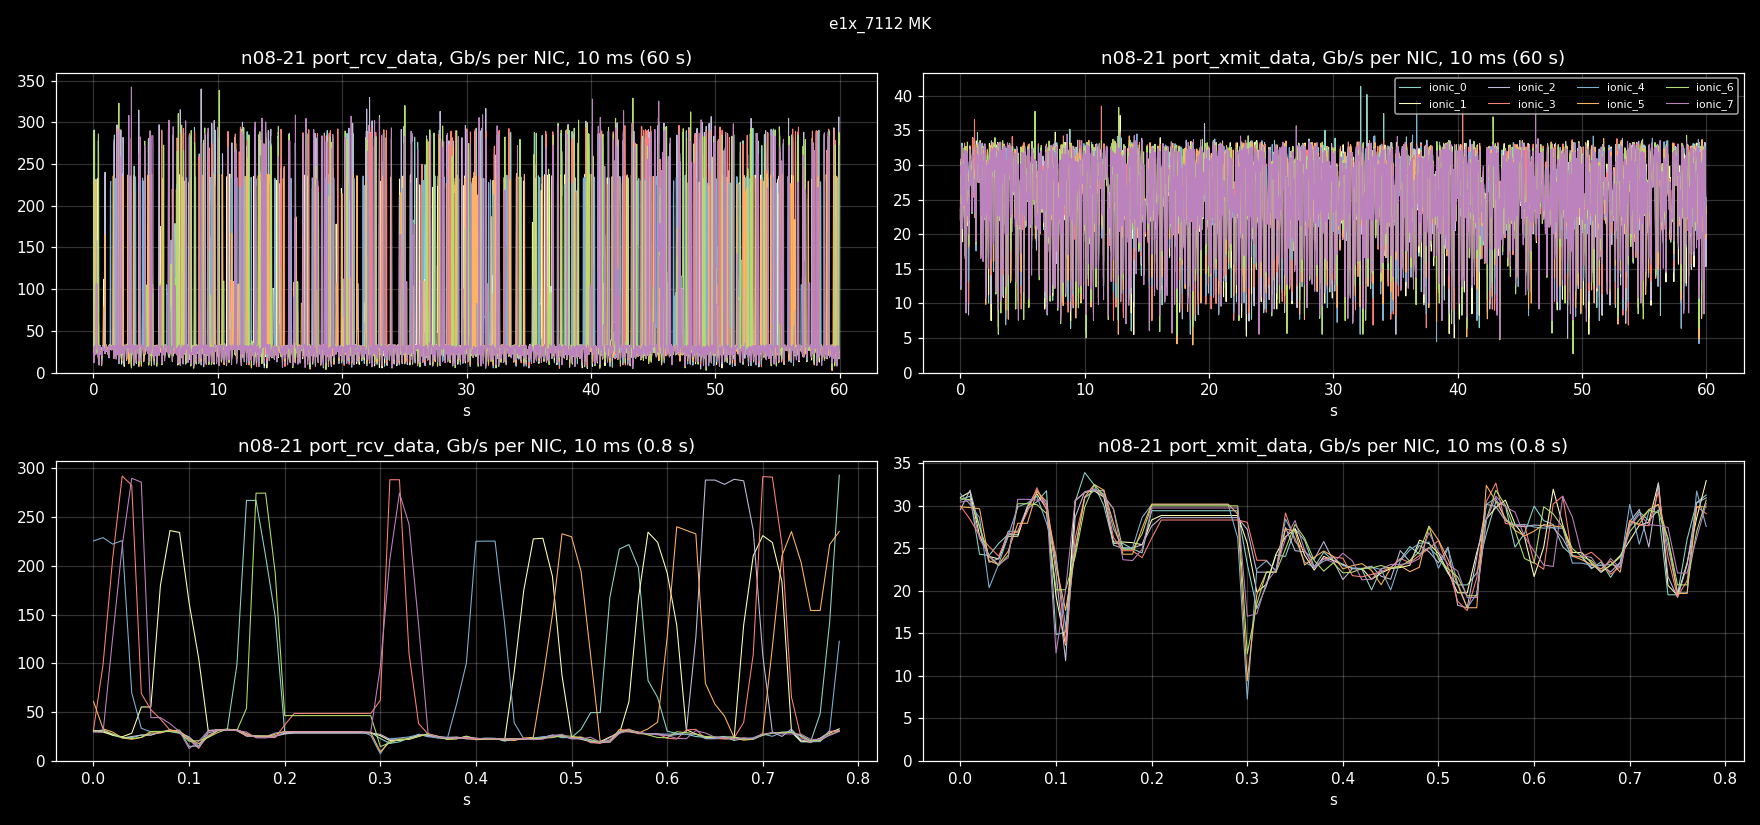
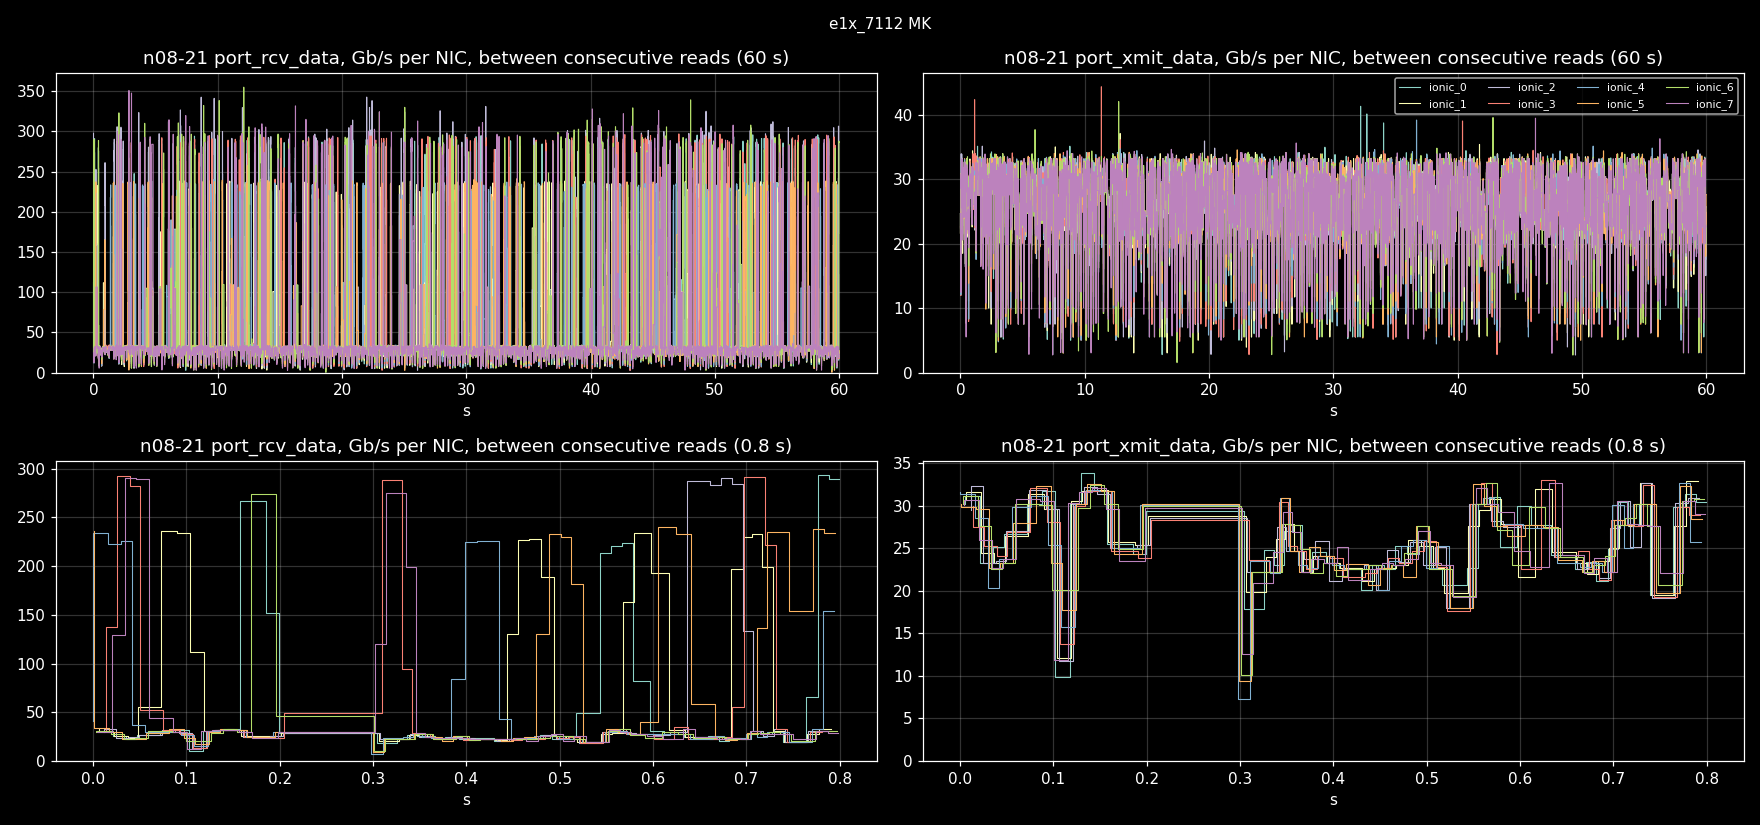
[Docs] smci355 nicmon: the raw data is the counters; plots, Grafana and stats use the average between two consecutive reads (no 10 / 5 ms grid); these runs have one read per NIC every ~12 ms (median 11.8, 2% over 50 ms)

diff --git a/docs/epio/smci355_vllm/tools/mk_analyze.py b/docs/epio/smci355_vllm/tools/mk_analyze.py
@@ -10,7 +10,7 @@ Per window (IO on = events <w>_io_on - 20 s .. <w>_io_end; base = the base windo
            for the previous transfer), rate per NIC while transferring; decode RX bins p99 / max
   loss     retransmitted packets / s at the senders, sequence errors / s at the receivers (TC 0 drops)
   CNP      CNPs / s at the decode nodes (EP packets marked in a switch queue)
-Plots: Moonshot-style per-NIC RX / TX (--bin-ms bins, default 5) of the first decode node, an overview of the window and a zoom.
+Plots: Moonshot-style per-NIC RX / TX (each point the average between two consecutive reads; --bin-ms to resample) of the first decode node, an overview of the window and a zoom.
 """
 import argparse
 import glob
@@ -22,10 +22,28 @@ import sys
 import numpy as np
 
 sys.path.insert(0, os.path.dirname(os.path.abspath(__file__)))
-from nicmon_load import SLOW, load as load_nicmon, rates  # noqa: E402
+from nicmon_load import SLOW, load as load_nicmon, native, rates  # noqa: E402
 
 
-BIN = 0.005
+BIN = 0.0
+
+
+def window_rates(series, t0, t1):
+    """rates of every NIC in [t0, t1): (TX samples, RX samples, mean TX per NIC). The samples are the averages between
+    consecutive reads (BIN = 0) or the bins of BIN s; the mean comes straight from the counters at t0 and t1"""
+    good = [s for s in series if len(s[0]) > 1]
+    if not good:
+        return np.zeros(1), np.zeros(1), float("nan")
+    mean = float(np.mean([(np.interp(t1, s[0], s[1]) - np.interp(t0, s[0], s[1])) / (t1 - t0) * 8 / 1e9 for s in good]))
+    if BIN > 0:
+        tx, rx, _ = bins(series, t0, t1)
+        return tx.ravel(), rx.ravel(), mean
+    txs, rxs = [], []
+    for t, a, b in native(series):
+        m = (t >= t0) & (t < t1)
+        txs.append(a[m]); rxs.append(b[m])
+    tx, rx = np.concatenate(txs), np.concatenate(rxs)
+    return (tx if tx.size else np.zeros(1)), (rx if rx.size else np.zeros(1)), mean
 
 
 def bins(series, t0, t1, b=None):
@@ -113,19 +131,24 @@ def io_records(run_dir, w):
                 rate50=pct(rate, 50))
 
 
-def plot(path, title, t, tx, rx, nic_line=400):
+def plot(path, title, series, t0, t1, nic_line=400):
     import matplotlib
     matplotlib.use("Agg")
     import matplotlib.pyplot as plt
 
     plt.style.use("dark_background")
     fig, ax = plt.subplots(1, 2, figsize=(16, 4.2))
-    x = t - t[0]
-    for i in range(rx.shape[1]):
-        ax[0].plot(x, rx[:, i], lw=0.8, label=f"ionic_{i}")
-        ax[1].plot(x, tx[:, i], lw=0.8, label=f"ionic_{i}")
-    ax[0].set_title(f"{title}: port_rcv_data (Gb/s, {BIN * 1e3:g} ms)")
-    ax[1].set_title(f"{title}: port_xmit_data (Gb/s, {BIN * 1e3:g} ms)")
+    if BIN > 0:
+        tx, rx, t = bins(series, t0, t1)
+        per = [(t, tx[:, i], rx[:, i]) for i in range(tx.shape[1])]
+    else:
+        per = [(t[(t >= t0) & (t < t1)], a[(t >= t0) & (t < t1)], b[(t >= t0) & (t < t1)]) for t, a, b in native(series)]
+    for i, (t, a, b) in enumerate(per):
+        ax[0].plot(t - t0, b, lw=0.8, drawstyle="steps-pre", label=f"ionic_{i}")
+        ax[1].plot(t - t0, a, lw=0.8, drawstyle="steps-pre", label=f"ionic_{i}")
+    how = f"{BIN * 1e3:g} ms bins" if BIN > 0 else "between consecutive reads"
+    ax[0].set_title(f"{title}: port_rcv_data (Gb/s, {how})")
+    ax[1].set_title(f"{title}: port_xmit_data (Gb/s, {how})")
     for a in ax:
         a.set_xlabel("s"); a.grid(alpha=0.2); a.set_ylim(bottom=0)
     ax[0].axhline(nic_line, color="w", lw=0.5, ls=":")
@@ -140,7 +163,7 @@ def main():
     ap.add_argument("run_dir")
     ap.add_argument("--plots")
     ap.add_argument("--zoom-s", type=float, default=0.8)
-    ap.add_argument("--bin-ms", type=float, default=5.0)
+    ap.add_argument("--bin-ms", type=float, default=0.0, help="resample onto this grid (0 = each read interval)")
     ap.add_argument("--decode", default=None, help="decode nodes (default: the serve_<node>.log ones)")
     a = ap.parse_args()
     global BIN
@@ -155,44 +178,42 @@ def main():
     lv = live(rd)
     base = [steps(lv, w[1], w[2]) for w in ws if w[0].startswith("base")]
     b0 = float(np.nanmean(base)) if base else float("nan")
+    per = f"{a.bin_ms:g} ms bins" if a.bin_ms > 0 else "per read"
     print(f"run {os.path.basename(os.path.normpath(rd))}: decode {dec}, IO source {src}, base windows' step "
           f"{' / '.join(f'{x:.1f}' for x in base)} ms")
-    hdr = (f"| window | step (ms) | IO off around it (ms) | change | EP TX / NIC mean (Gb/s) | EP {a.bin_ms:g} ms p50 / p99 "
-           f"| decode RX {a.bin_ms:g} ms p99 / max | KV transfers | KV ms p50 / p99 | KV latency ms p50 / p99 | KV GB/s / NIC "
+    hdr = (f"| window | step (ms) | IO off around it (ms) | change | EP TX / NIC mean (Gb/s) | EP {per} p50 / p99 "
+           f"| decode RX {per} p99 / max | KV transfers | KV ms p50 / p99 | KV latency ms p50 / p99 | KV GB/s / NIC "
            "| retx pkts/s (source) | seq err/s (decode) | CNP/s (decode) |")
     print(hdr)
     print("|" + "|".join(["---"] * (hdr.count("|") - 1)) + "|")
     for wi, (w, t0, t1, _, _) in enumerate(ws):
         s = steps(lv, t0, t1)
         lb = local_base(lv, ws, wi)
-        txs, rxs, cnp, seq = [], [], 0.0, 0.0
+        txs, rxs, means, cnp, seq = [], [], [], 0.0, 0.0
         for n in dec:
             if n not in nm:
                 continue
             S, st, sv = nm[n]
-            tx, rx, _ = bins(S, t0, t1)
-            if tx is not None:
-                txs.append(tx); rxs.append(rx)
+            tx, rx, mean = window_rates(S, t0, t1)
+            txs.append(tx); rxs.append(rx); means.append(mean)
             cnp += slow_rate(st, sv, t0, t1, 3)
             seq += slow_rate(st, sv, t0, t1, 5) + slow_rate(st, sv, t0, t1, 6)
         retx = sum(slow_rate(nm[n][1], nm[n][2], t0, t1, 0) for n in nm)
-        tx = np.concatenate(txs) if txs else np.zeros((1, 8))
-        rx = np.concatenate(rxs) if rxs else np.zeros((1, 8))
+        tx = np.concatenate(txs) if txs else np.zeros(1)
+        rx = np.concatenate(rxs) if rxs else np.zeros(1)
+        ep_mean = float(np.nanmean(means)) if means else float("nan")
         io = io_records(rd, w) if not w.startswith("base") else dict(n=0, dur50=np.nan, dur99=np.nan, lat50=np.nan,
                                                                        lat99=np.nan, rate50=np.nan)
-        print(f"| {w} | {s:.1f} | {lb:.1f} | {(s / lb - 1) * 100:+.1f}% | {tx.mean():.1f} | {np.percentile(tx, 50):.0f} / "
+        print(f"| {w} | {s:.1f} | {lb:.1f} | {(s / lb - 1) * 100:+.1f}% | {ep_mean:.1f} | {np.percentile(tx, 50):.0f} / "
               f"{np.percentile(tx, 99):.0f} | {np.percentile(rx, 99):.0f} / {rx.max():.0f} | {io['n']} | "
               f"{io['dur50']:.1f} / {io['dur99']:.1f} | {io['lat50']:.1f} / {io['lat99']:.1f} | {io['rate50']:.1f} | "
               f"{retx:.0f} | {seq:.0f} | {cnp:.0f} |")
         if a.plots and dec and dec[0] in nm:
             os.makedirs(a.plots, exist_ok=True)
             S = nm[dec[0]][0]
-            tx, rx, t = bins(S, t0, t1)
-            if tx is not None:
-                plot(os.path.join(a.plots, f"{w}_{dec[0]}_overview.png"), f"{w} {dec[0]}", t, tx, rx)
-                z0 = t0 + 30
-                tx, rx, t = bins(S, z0, z0 + a.zoom_s)
-                plot(os.path.join(a.plots, f"{w}_{dec[0]}_zoom.png"), f"{w} {dec[0]} ({a.zoom_s:g} s)", t, tx, rx)
+            plot(os.path.join(a.plots, f"{w}_{dec[0]}_overview.png"), f"{w} {dec[0]}", S, t0, t1)
+            z0 = t0 + 30
+            plot(os.path.join(a.plots, f"{w}_{dec[0]}_zoom.png"), f"{w} {dec[0]} ({a.zoom_s:g} s)", S, z0, z0 + a.zoom_s)
 
 
 if __name__ == "__main__":

diff --git a/docs/epio/smci355_vllm/tools/grafana_dash.py b/docs/epio/smci355_vllm/tools/grafana_dash.py
@@ -3,7 +3,8 @@
 
   python3 tools/grafana_dash.py [results/e2e/<run> [<window>]]
 
-The panels mirror Moonshot's decode-node screenshots ("IB std port_rcv_data / port_xmit_data", per NIC; 5 ms here):
+The panels mirror Moonshot's decode-node screenshots ("IB std port_rcv_data / port_xmit_data", per NIC; here each point
+is the average between two consecutive reads of that NIC):
 RX and TX of every NIC of the chosen node, every node's totals, CNP / ECN / retransmissions / sequence errors, the IO
 windows and the decode step. With a run (and a window, default the first MK window) the default time range is the
 first 20 s of that window's IO.
@@ -18,11 +19,11 @@ DS = {"type": "prometheus", "uid": "vm"}
 
 def ts_panel(title, expr, legend, x, y, w, h, unit="suffix: Gb/s", desc=""):
     return {"type": "timeseries", "title": title, "description": desc, "datasource": DS,
-            "gridPos": {"x": x, "y": y, "w": w, "h": h}, "interval": "5ms", "maxDataPoints": 4000,
+            "gridPos": {"x": x, "y": y, "w": w, "h": h}, "interval": "1ms", "maxDataPoints": 4000,
             "targets": [{"refId": "A", "datasource": DS, "expr": expr, "legendFormat": legend, "range": True}],
             "fieldConfig": {"defaults": {"unit": unit, "decimals": 0, "min": 0,
                                          "custom": {"lineWidth": 1, "fillOpacity": 0, "showPoints": "never",
-                                                    "spanNulls": False}}, "overrides": []},
+                                                    "spanNulls": True}}, "overrides": []},
             "options": {"legend": {"displayMode": "table", "placement": "right", "calcs": ["mean", "max"]},
                         "tooltip": {"mode": "multi", "sort": "desc"}}}
 
@@ -48,9 +49,9 @@ def main():
     window = sys.argv[2] if len(sys.argv) > 2 else None
     sel = 'run="$run",node="$node",nic=~"$nic"'
     panels = [
-        ts_panel("$node port_rcv_data（每张网卡接收，5 ms）", f"max_over_time(nic_rx_gbps{{{sel}}}[$__interval])",
+        ts_panel("$node port_rcv_data（每张网卡接收；每个点 = 相邻两次读数之间的平均速率）", f"max_over_time(nic_rx_gbps{{{sel}}}[$__interval])",
                  "{{nic}}", 0, 0, 12, 10, desc="decode 节点：EP（另一台 decode 发来）+ KV / 注入的 IO"),
-        ts_panel("$node port_xmit_data（每张网卡发送，5 ms）", f"max_over_time(nic_tx_gbps{{{sel}}}[$__interval])",
+        ts_panel("$node port_xmit_data（每张网卡发送；每个点 = 相邻两次读数之间的平均速率）", f"max_over_time(nic_tx_gbps{{{sel}}}[$__interval])",
                  "{{nic}}", 12, 0, 12, 10, desc="decode 节点只发 EP 和 READ 请求；C 节点发的是注入的 IO"),
         ts_panel("每台机器接收合计（8 张网卡）", 'sum by (node) (nic_rx_gbps{run="$run"})', "{{node}}", 0, 10, 12, 8),
         ts_panel("每台机器发送合计（8 张网卡）", 'sum by (node) (nic_tx_gbps{run="$run"})', "{{node}}", 12, 10, 12, 8),
@@ -68,7 +69,7 @@ def main():
          "options": {"showValue": "never", "mergeValues": True, "rowHeight": 0.8}},
         ts_panel("decode 每步（ms，客户端 10 秒中位数）", 'step_ms{run="$run"}', "step", 16, 26, 8, 7, unit="ms"),
     ]
-    dash = {"uid": "nicmon", "title": "nicmon：每张网卡 5 ms 流量（smci355）", "timezone": "browser", "schemaVersion": 39,
+    dash = {"uid": "nicmon", "title": "nicmon：每张网卡的收发速率（smci355）", "timezone": "browser", "schemaVersion": 39,
             "editable": True, "refresh": "", "panels": panels,
             "templating": {"list": [var("run", "label_values(nic_rx_gbps, run)"),
                                     var("node", 'label_values(nic_rx_gbps{run="$run"}, node)'),

diff --git a/docs/epio/smci355_vllm/tools/fig_mk.py b/docs/epio/smci355_vllm/tools/fig_mk.py
@@ -1,11 +1,11 @@
 #!/usr/bin/env python3
 """fig_mk.py: figures of the Moonshot-shaped KV runs (tools/mk_analyze.py's windows, e2e/e1_analyze.py's EP kernels).
 
-  python3 tools/fig_mk.py traffic <run_dir> <window> <out.png> [--node n08-21] [--zoom-at 30] [--zoom-s 0.8] [--bin-ms 5]
+  python3 tools/fig_mk.py traffic <run_dir> <window> <out.png> [--node n08-21] [--zoom-at 30] [--zoom-s 0.8] [--bin-ms <ms>]
   python3 tools/fig_mk.py impact <out.png> <label>=<run_dir>[:w1,w2,...] ...
 
-traffic: the node's per-NIC RX / TX like the decode-side screenshots (Gb/s, --bin-ms bins, default 5), 60 s of the
-         window's IO and a zoom.
+traffic: the node's per-NIC RX / TX like the decode-side screenshots (Gb/s; each point the average between two
+         consecutive reads, or --bin-ms bins), 60 s of the window's IO and a zoom.
 impact:  per window, the decode step's change against the IO-off stretches around it and the change of the MoRI EP
          dispatch kernel (mean of the ranks' means) against the run's base windows.
 """
@@ -18,7 +18,7 @@ import numpy as np
 
 sys.path.insert(0, os.path.dirname(os.path.abspath(__file__)))
 import mk_analyze as mk  # noqa: E402
-from nicmon_load import load, rates  # noqa: E402
+from nicmon_load import load, native, rates  # noqa: E402
 
 
 def dark():
@@ -36,16 +36,21 @@ def traffic(a):
     S, _, _ = load(os.path.join(a.run_dir, f"nicmon_{a.node}.csv.gz"))
     b = a.bin_ms / 1e3
     fig, ax = plt.subplots(2, 2, figsize=(16, 7.5))
+    nat = native(S)
+    how = f"{a.bin_ms:g} ms bins" if b > 0 else "between consecutive reads"
     for row, (s, e) in enumerate(((t0, min(t1, t0 + 60)), (t0 + a.zoom_at, t0 + a.zoom_at + a.zoom_s))):
-        g = np.arange(s, e, b)
-        tx, rx = rates(S, g)
-        x = g[:-1] - g[0]
-        for i in range(8):
-            ax[row][0].plot(x, rx[:, i], lw=0.7, label=f"ionic_{i}")
-            ax[row][1].plot(x, tx[:, i], lw=0.7, label=f"ionic_{i}")
+        if b > 0:
+            g = np.arange(s, e, b)
+            tx, rx = rates(S, g)
+            per = [(g[1:], tx[:, i], rx[:, i]) for i in range(8)]
+        else:
+            per = [(t[(t >= s) & (t < e)], x[(t >= s) & (t < e)], y[(t >= s) & (t < e)]) for t, x, y in nat]
+        for i, (t, x, y) in enumerate(per):
+            ax[row][0].plot(t - s, y, lw=0.7, drawstyle="steps-pre", label=f"ionic_{i}")
+            ax[row][1].plot(t - s, x, lw=0.7, drawstyle="steps-pre", label=f"ionic_{i}")
         span = f"{e - s:g} s" if row else "60 s"
-        ax[row][0].set_title(f"{a.node} port_rcv_data, Gb/s per NIC, {a.bin_ms:g} ms bins ({span})")
-        ax[row][1].set_title(f"{a.node} port_xmit_data, Gb/s per NIC, {a.bin_ms:g} ms bins ({span})")
+        ax[row][0].set_title(f"{a.node} port_rcv_data, Gb/s per NIC, {how} ({span})")
+        ax[row][1].set_title(f"{a.node} port_xmit_data, Gb/s per NIC, {how} ({span})")
         for c in ax[row]:
             c.set_ylim(bottom=0); c.grid(alpha=0.2); c.set_xlabel("s")
     ax[0][1].legend(fontsize=7, ncol=4, loc="upper right")
@@ -97,7 +102,7 @@ def main():
     t.add_argument("run_dir"); t.add_argument("window"); t.add_argument("out")
     t.add_argument("--node", default="n08-21"); t.add_argument("--zoom-at", type=float, default=30)
     t.add_argument("--zoom-s", type=float, default=0.8)
-    t.add_argument("--bin-ms", type=float, default=5.0)
+    t.add_argument("--bin-ms", type=float, default=0.0, help="resample onto this grid (0 = each read interval)")
     i = sub.add_parser("impact")
     i.add_argument("out"); i.add_argument("runs", nargs="+")
     a = ap.parse_args()

diff --git a/docs/epio/smci355_vllm/tools/nicmon_to_vm.py b/docs/epio/smci355_vllm/tools/nicmon_to_vm.py
@@ -1,10 +1,11 @@
 #!/usr/bin/env python3
 """nicmon_to_vm.py: load a run's nicmon traces (and its windows and step times) into VictoriaMetrics for Grafana.
 
-  python3 tools/nicmon_to_vm.py results/e2e/<run> [--vm http://127.0.0.1:18428] [--bin-ms 5]
+  python3 tools/nicmon_to_vm.py results/e2e/<run> [--vm http://127.0.0.1:18428] [--bin-ms <ms>]
 
 Series (labels run, node, nic):
-  nic_rx_gbps / nic_tx_gbps      each NIC's RDMA bytes, Gb/s, on a --bin-ms grid (default 5 ms)
+  nic_rx_gbps / nic_tx_gbps      each NIC's RDMA bytes, Gb/s: the average between two consecutive reads of that NIC,
+                                 at the later read (with --bin-ms, resampled onto a grid of that size instead)
   nic_retx_pps, nic_cnp_pps, nic_ecn_pps, nic_seqerr_pps   per second, from nicmon's slower rows (~100 ms)
   window_on{window}              1 while an IO window's IO runs (events.tsv <name>_io_on .. <name>_io_end), else 0
   step_ms                        the loadgen's median gap between streamed chunks per 10 s record (one decode step)
@@ -20,7 +21,7 @@ import urllib.request
 import numpy as np
 
 sys.path.insert(0, os.path.dirname(os.path.abspath(__file__)))
-from nicmon_load import SLOW, NDEV, load, rates, span  # noqa: E402
+from nicmon_load import SLOW, NDEV, load, native, rates, span  # noqa: E402
 
 
 def push(vm, lines):
@@ -46,7 +47,7 @@ def main():
     ap = argparse.ArgumentParser()
     ap.add_argument("run_dir")
     ap.add_argument("--vm", default="http://127.0.0.1:18428")
-    ap.add_argument("--bin-ms", type=float, default=5.0)
+    ap.add_argument("--bin-ms", type=float, default=0.0, help="resample onto this grid (0 = each read interval)")
     a = ap.parse_args()
     run = os.path.basename(os.path.normpath(a.run_dir))
     b = a.bin_ms / 1e3
@@ -56,19 +57,22 @@ def main():
         t0, t1 = span(S)
         if not t1 > t0:
             continue
-        grid = np.arange(np.ceil(t0 / b) * b, t1, b)
-        mid = grid[1:]
-        tx, rx = rates(S, grid)
-        for i in range(NDEV):
+        if b > 0:
+            grid = np.arange(np.ceil(t0 / b) * b, t1, b)
+            tx, rx = rates(S, grid)
+            per = [(grid[1:], tx[:, i], rx[:, i]) for i in range(NDEV)]
+        else:
+            per = native(S)
+        for i, (ts, txr, rxr) in enumerate(per):
             lab = {"run": run, "node": node, "nic": f"ionic_{i}"}
-            series("nic_tx_gbps", lab, mid, tx[:, i], a.vm)
-            series("nic_rx_gbps", lab, mid, rx[:, i], a.vm)
+            series("nic_tx_gbps", lab, ts, txr, a.vm)
+            series("nic_rx_gbps", lab, ts, rxr, a.vm)
             if len(st) > 2:
                 k = len(SLOW)
                 d = np.diff(sv[:, i * k:(i + 1) * k], axis=0) / np.diff(st)[:, None]
                 for name, col in (("nic_retx_pps", 0), ("nic_cnp_pps", 3), ("nic_ecn_pps", 4), ("nic_seqerr_pps", 5)):
                     series(name, lab, st[1:], d[:, col], a.vm)
-        print(f"{node}: {sum(len(s[0]) for s in S)} NIC samples, {len(grid) - 1} bins of {a.bin_ms:g} ms", flush=True)
+        print(f"{node}: {sum(len(s[0]) for s in S)} NIC reads" + (f", resampled to {a.bin_ms:g} ms" if b > 0 else ""), flush=True)
     ev = os.path.join(a.run_dir, "events.tsv")
     if os.path.exists(ev):
         on = {}

diff --git a/docs/epio/smci355_vllm/tools/nicmon_load.py b/docs/epio/smci355_vllm/tools/nicmon_load.py
@@ -46,6 +46,20 @@ def load(path):
     return series, np.array(s_t), np.array(s_v, dtype=np.float64)
 
 
+def native(series):
+    """each NIC's average rate between two consecutive reads, stamped at the later read: [(times, tx Gb/s, rx Gb/s)].
+    No resampling: a point covers exactly the interval since the NIC's previous read."""
+    out = []
+    for t, txb, rxb in series:
+        if len(t) < 2:
+            out.append((np.array([]), np.array([]), np.array([])))
+            continue
+        dt = np.diff(t)
+        ok = dt > 0
+        out.append((t[1:][ok], (np.diff(txb) / dt * 8 / 1e9)[ok], (np.diff(rxb) / dt * 8 / 1e9)[ok]))
+    return out
+
+
 def span(series):
     """first and last sample time over the NICs"""
     ts = [s[0] for s in series if len(s[0])]
